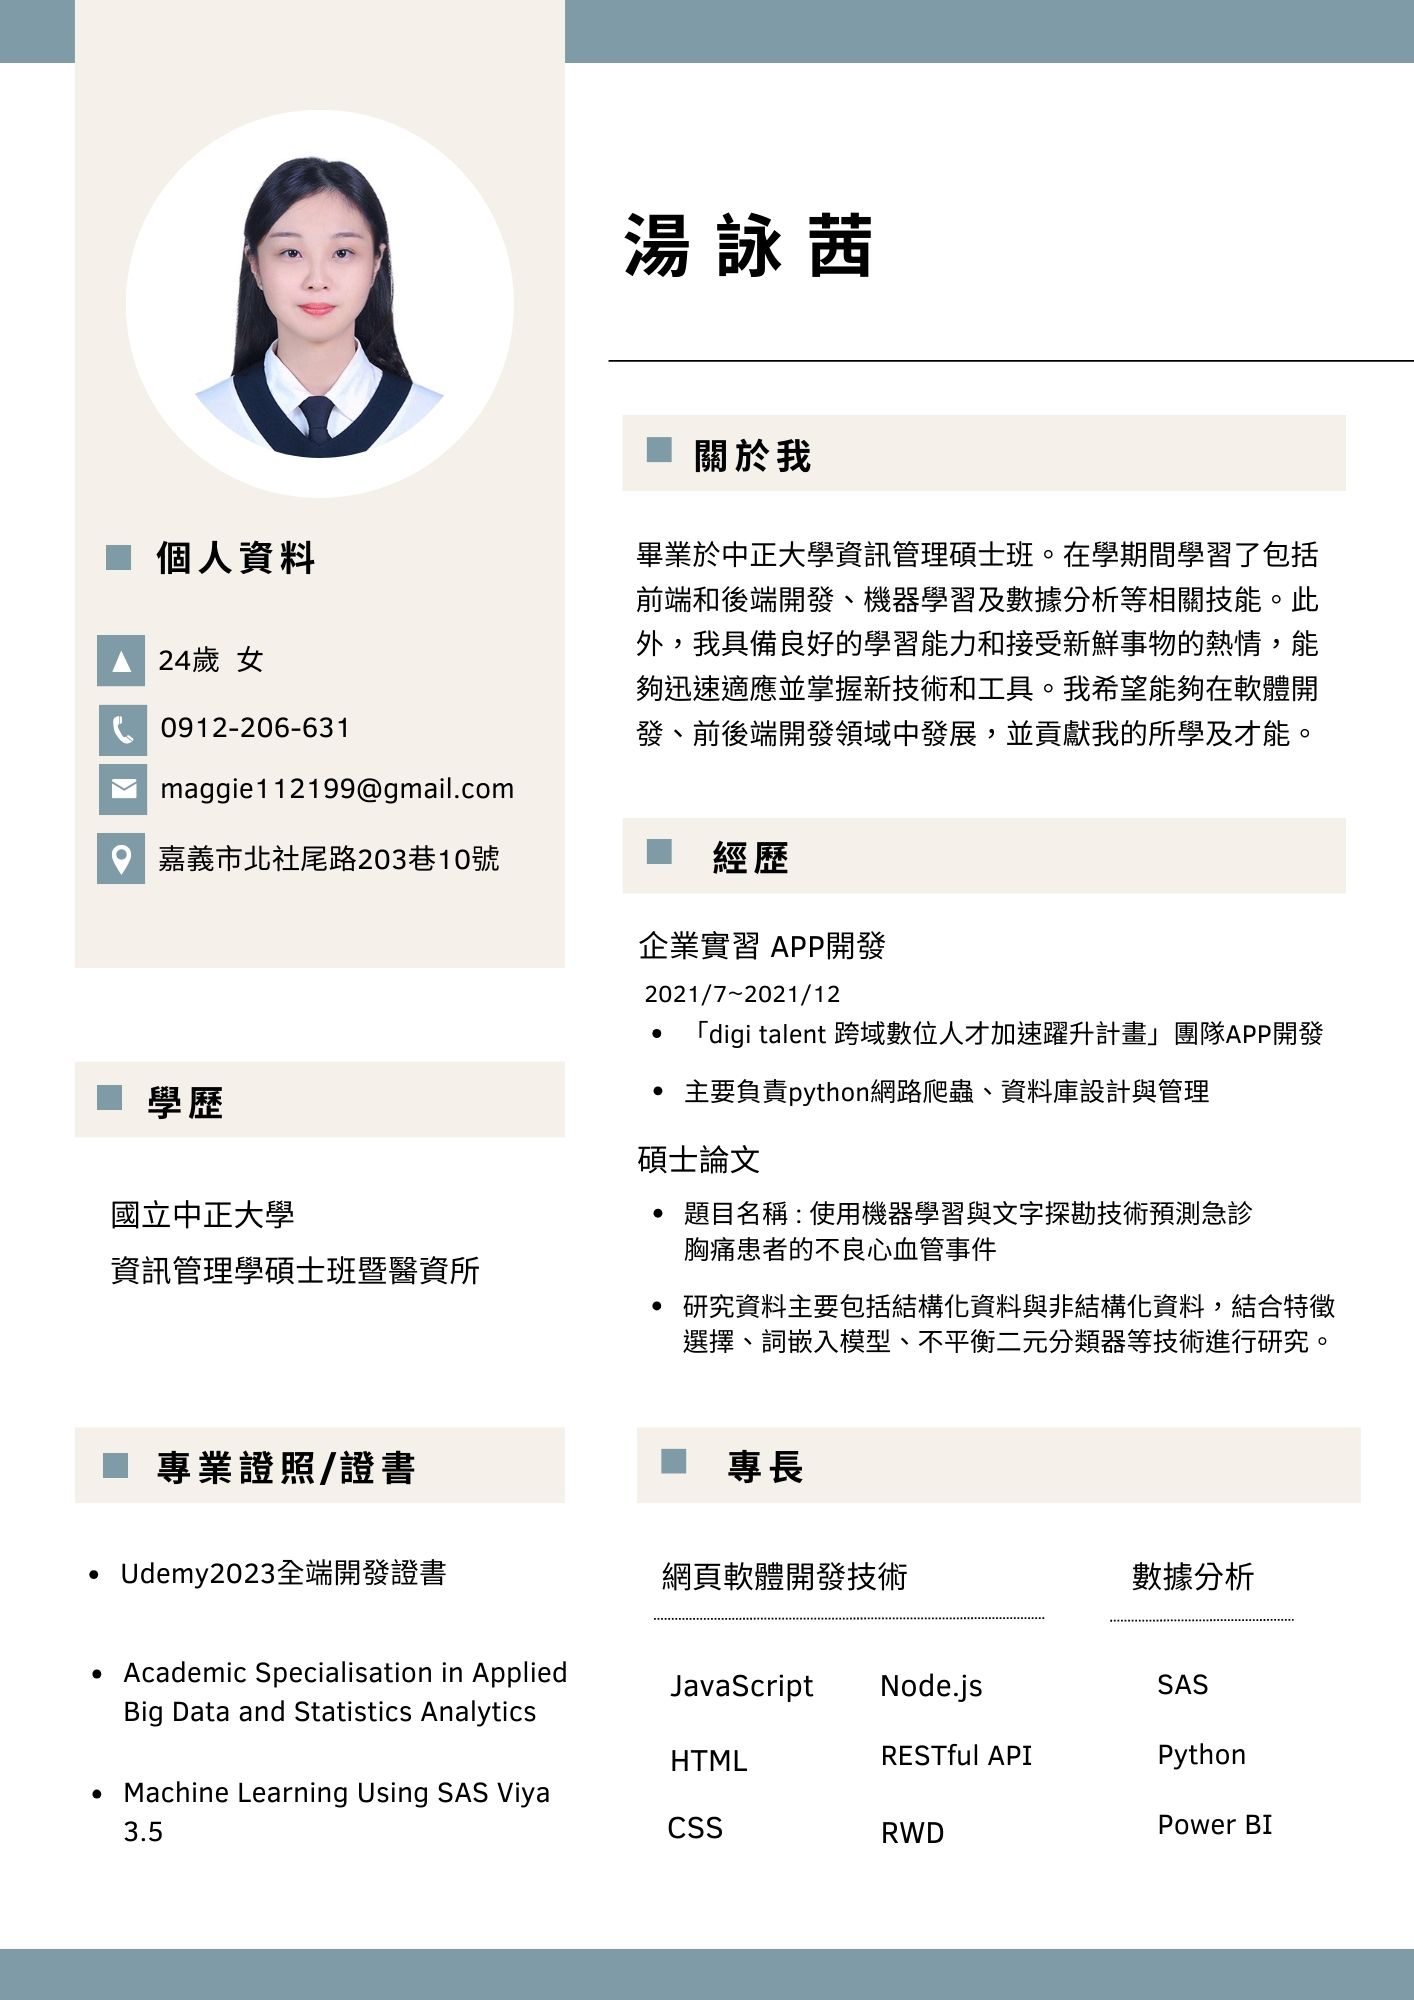
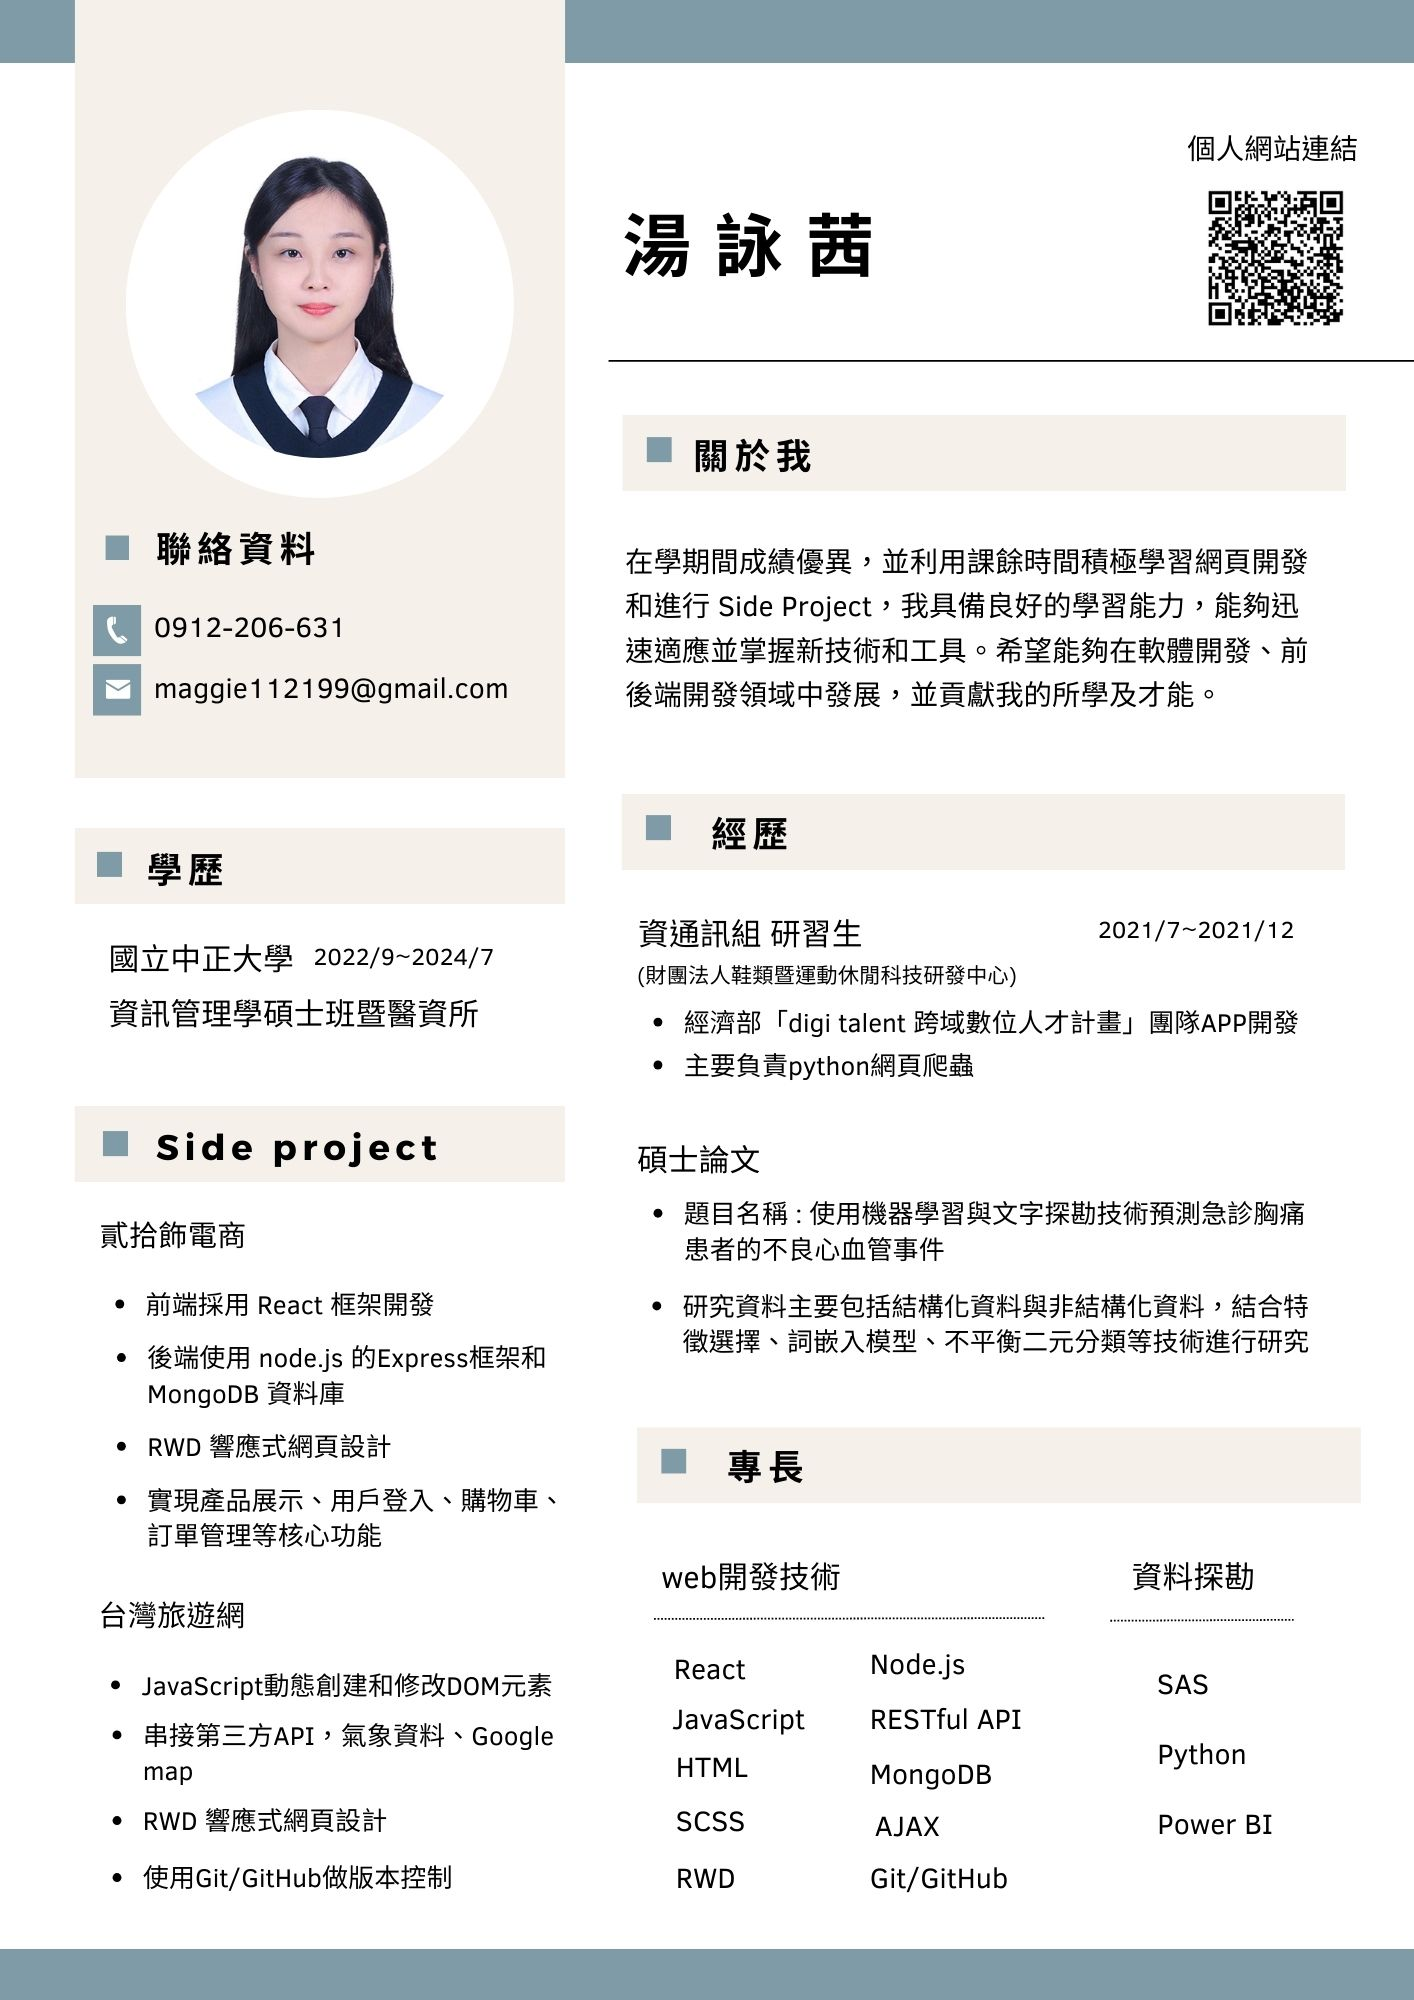
1.3

diff --git a/store.html b/store.html
@@ -36,7 +36,8 @@
       <p>
         貳拾飾是一個專門銷售飾品的購物網站，讓用戶能夠輕鬆地瀏覽、選擇並購買商品。專案採用
         React
-        框架開發前端，並結合node.js的Express框架和MongoDB資料庫，執行後端功能，實現產品展示、用戶認證、購物車、訂單管理等核心功能。
+        框架開發前端，並結合node.js的Express框架和MongoDB資料庫，執行後端功能，實現產品展示、用戶認證、購物車、訂單管理等核心功能。(後端功能因平台限制未部屬)
+        <a href="https://github.com/tangYungChien/E-store">github連結</a>
       </p>
       <h2>前端功能</h2>
       <h3>產品展示與分類過濾</h3>
@@ -68,6 +69,7 @@
       </ul>
 
       <h2>技術棧</h2>
+
       <h3>React</h3>
       <ul>
         <li>React Router：進行客戶端路由管理，並實現SPA</li>

diff --git a/taiwan_travel.html b/taiwan_travel.html
@@ -35,6 +35,9 @@
       </div>
       <p>
         台灣旅遊網是一個展示台灣各地熱門旅遊景點的網站。該網站提供了精選景點介紹、天氣資訊以及收藏功能，旨在為使用者提供一個便捷的旅遊資訊平台。
+        <a href="https://github.com/tangYungChien/Taiwan-travel-website"
+          >github連結</a
+        >
       </p>
       <h2>功能描述</h2>
       <h3>首頁</h3>
@@ -61,7 +64,7 @@
       <h3>HTML</h3>
       <ul>
         <li>
-          使用<code>&lt;section&gt;</code>、<code>&lt;nav&gt;</code>、<code>&lt;header&gt;</code>、<code>&lt;footer&gt;</code>等<strong>語義化標籤</strong>來提升可讀性
+          使用<code>&lt;nav&gt;</code>、<code>&lt;header&gt;</code>、<code>&lt;footer&gt;</code>等<strong>語義化標籤</strong>來提升可讀性
         </li>
       </ul>
       <h3>CSS</h3>

diff --git a/index.html b/index.html
@@ -113,7 +113,7 @@
             <p id="top">
               貳拾飾是一個專門銷售飾品的購物網站，讓用戶能夠輕鬆地瀏覽、選擇並購買商品。
             </p>
-            <p>使用技術: React , SCSS , JavaScript , node.js , RWD</p>
+            <p>使用技術: React , JavaScript , node.js , MongoDB , RWD</p>
             <div class="projectButton">
               <a href="./store.html" class="learn-more">了解更多</a>
               <a

diff --git a/projects.html b/projects.html
@@ -28,7 +28,7 @@
           <p id="top">
             貳拾飾是一個專門銷售飾品的購物網站，讓用戶能夠輕鬆地瀏覽、選擇並購買商品。
           </p>
-          <p>使用技術: React , SCSS , JavaScript , node.js , RWD</p>
+          <p>使用技術: React , JavaScript , node.js , MongoDB , RWD</p>
           <div class="projectButton">
             <a href="./store.html" class="learn-more">了解更多</a>
             <a
